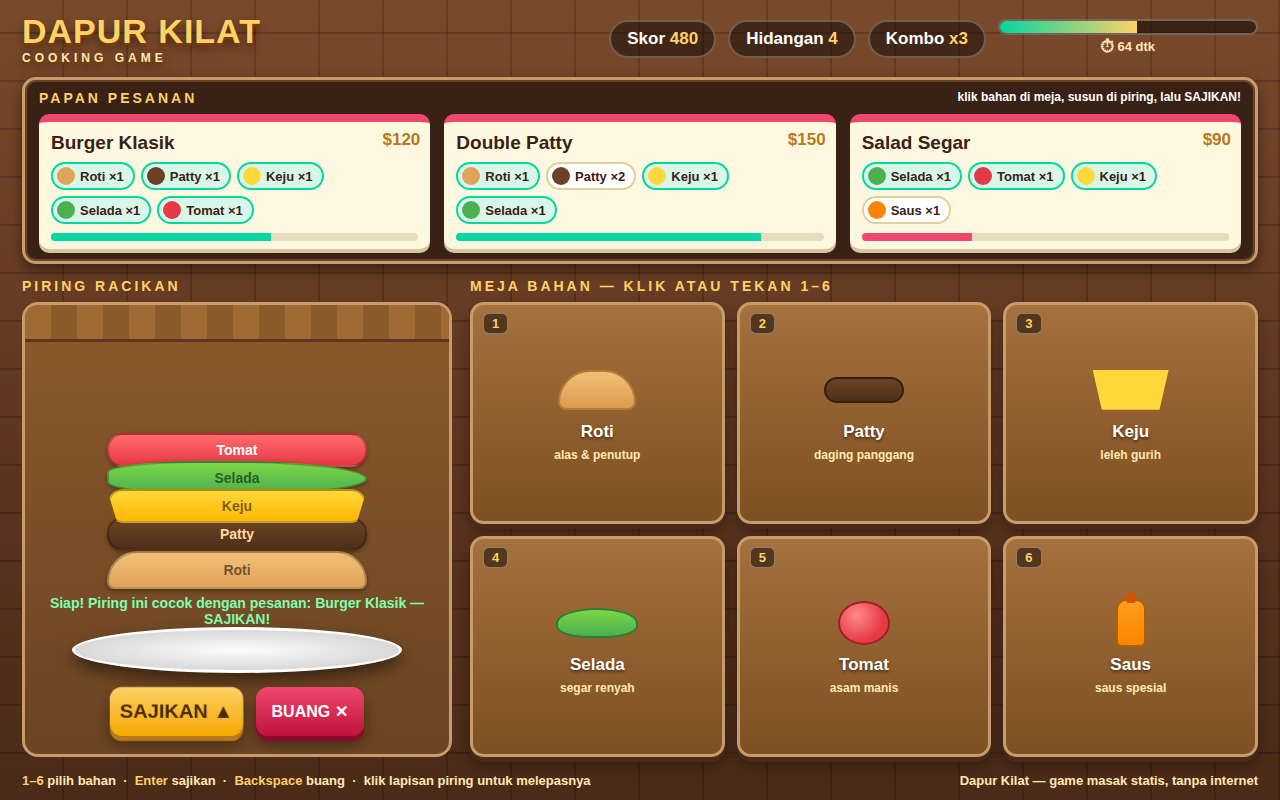
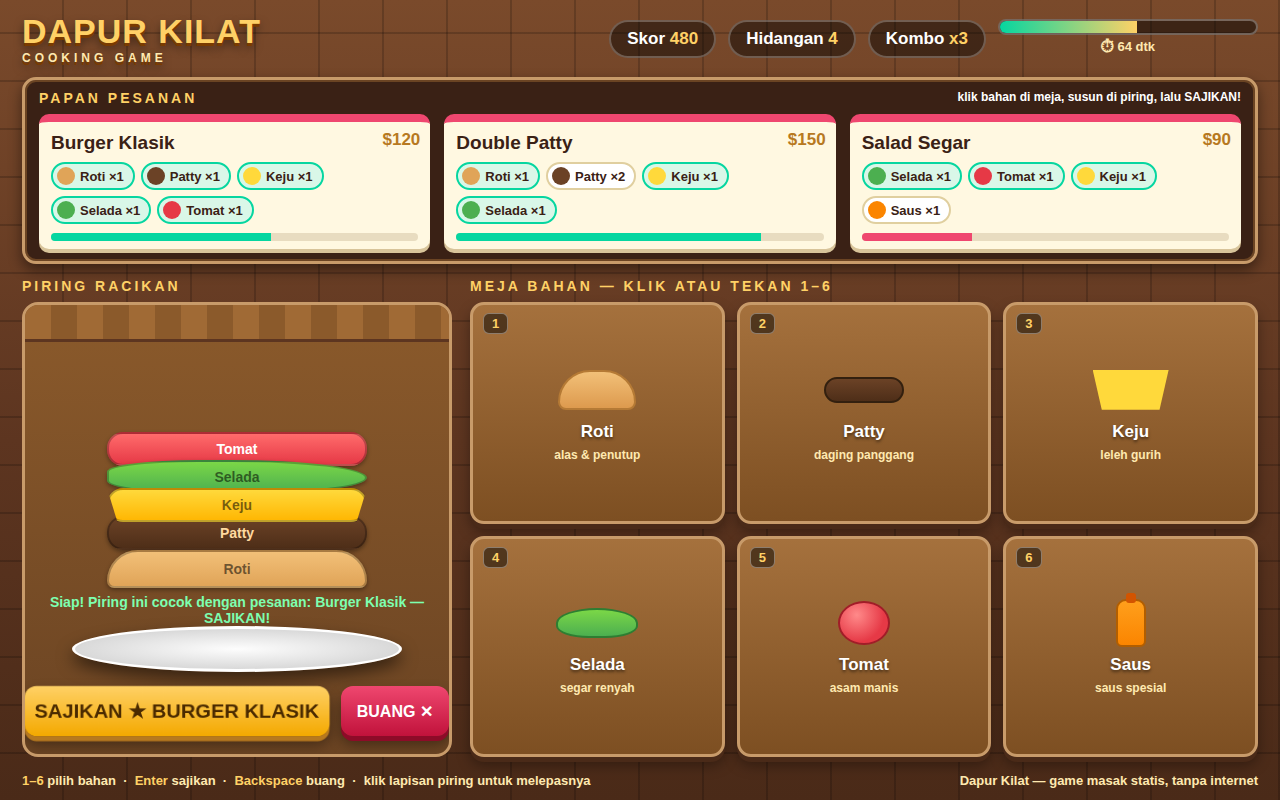
Dapur Kilat — serve button names the matched dish; add .makefun/owner.json

Changed region(s): [[0.0, 0.5312, 0.375, 0.9375], [0.0312, 0.75, 0.0625, 0.7812]]

diff --git a/main.ts b/main.ts
@@ -29,13 +29,12 @@ if (existsSync(join(here, 'screenshots'))) {
 // others refuse an entry the scorer would refuse (more than 4
 // screenshots or one over 256 KiB; more than 993 files in game/ or
 // 48 MiB of game files in all, or a path under game/ over 1000 bytes).
-writeFileSync(
-  join(out, 'dossier.json'),
-  buildDossier(out, {
-    text_max_bytes: 163840,
-    screenshots: { max: 4, max_bytes: 262144 },
-    game_max_files: 993,
-    game_max_bytes: 50331648,
-    game_path_max_bytes: 1000,
-  }),
-);
+const dossier = buildDossier(out, {
+  text_max_bytes: 163840,
+  screenshots: { max: 4, max_bytes: 262144 },
+  game_max_files: 993,
+  game_max_bytes: 50331648,
+  game_path_max_bytes: 1000,
+});
+writeFileSync(join(out, 'dossier.json'), dossier);
+console.log(`Dapur Kilat handed in: ${out} (dossier.json ${dossier.length} bytes).`);

diff --git a/game/index.html b/game/index.html
@@ -374,14 +374,17 @@ function renderPlate() {
     hint.textContent = "Pilih bahan dari meja untuk mulai meracik.";
     hint.className = "";
     serveBtn.classList.remove("ready");
+    serveBtn.textContent = "SAJIKAN ▲";
   } else if (match) {
     hint.textContent = "Siap! Piring ini cocok dengan pesanan: " + match.recipe.name + " — SAJIKAN!";
     hint.className = "good";
     serveBtn.classList.add("ready");
+    serveBtn.textContent = "SAJIKAN ★ " + match.recipe.name.toUpperCase();
   } else {
     hint.textContent = "Belum cocok dengan pesanan mana pun — cek Papan Pesanan.";
     hint.className = "";
     serveBtn.classList.remove("ready");
+    serveBtn.textContent = "SAJIKAN ▲";
   }
 }
 function findMatch() {
